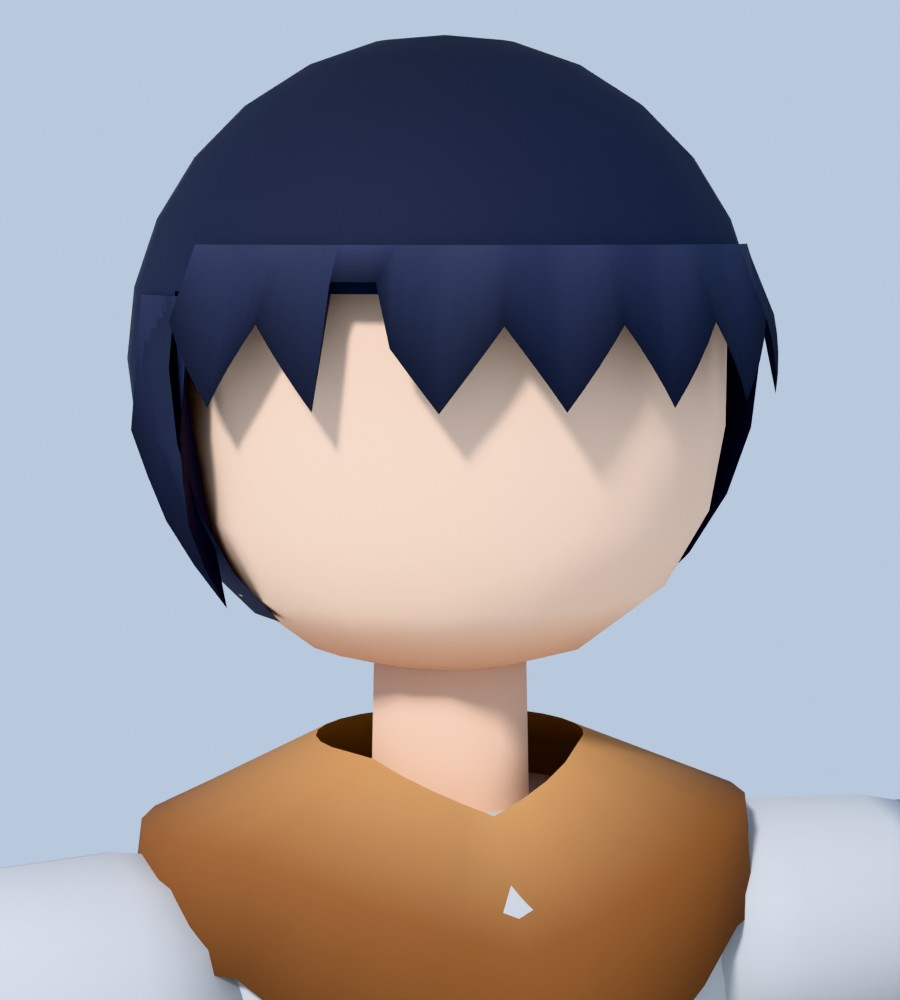
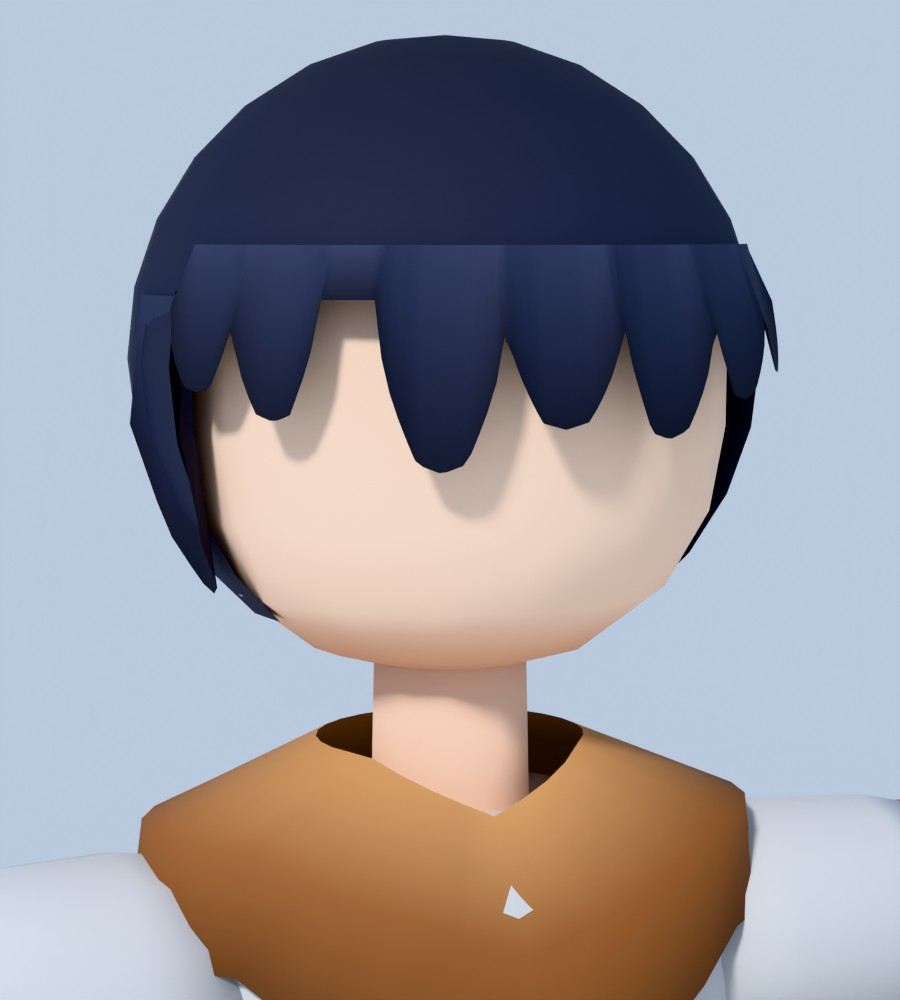
로타 앞머리를 뾰족한 톱니 대신 끝이 뭉툭한 가닥으로, 옆머리도 둥글게
Claude-Session: https://claude.ai/code/session_013o2MuY9sDztt8LyjMZEytH

Changed region(s): [[0.1867, 0.279, 0.8711, 0.62], [0.84, 0.279, 0.8711, 0.31]]

diff --git a/tools/character/rota.py b/tools/character/rota.py
@@ -157,17 +157,23 @@ def build():
             F.append((2 * k, 2 * k + 2, 2 * k + 3, 2 * k + 1))        # inner side, so it has a back
         hair.add(V, F, C, smooth=True)
 
+    # locks of hair: wide at the root, tapering to a soft point, different lengths, narrow gaps between
+    LOCKS = [(0.0, 0.11, 0.04), (0.11, 0.22, 0.052), (0.29, 0.43, 0.075), (0.43, 0.57, 0.055),
+             (0.57, 0.71, 0.062), (0.71, 0.85, 0.046), (0.85, 1.0, 0.036)]
+
+    def lock(u, depth, root=1.465):
+        # a strip of hair: steep sides, a blunt rounded end, only a slight taper
+        v = 1 - abs(2 * u - 1)                         # 0 at the gaps, 1 in the middle of the lock
+        return root - depth * min(1.0, (v / 0.6) ** 0.5) * (0.85 + 0.15 * v)
+
     def fringe(t):
-        # seven strands across the brow; the part shows a wedge of forehead on the left
-        k = t * 7
-        saw = abs((k % 1.0) - 0.5) * 2                 # 1 at the gaps, 0 at the tips
-        z = 1.418 + 0.04 * saw
-        if 0.22 < t < 0.3:                             # the part
-            z = max(z, 1.478)
-        return z
-    shell(-160, -20, 56, fringe)
-    for a0 in (-178, -2):                              # side locks to the jaw, pointed at the tip
-        shell(a0, a0 + 20, 8, lambda t: 1.312 + 0.09 * abs(t - 0.5) * 2, z_top=1.47)
+        for t0, t1, depth in LOCKS:
+            if t0 <= t <= t1:
+                return lock((t - t0) / (t1 - t0), depth)
+        return 1.47                                    # the part: a wedge of forehead shows
+    shell(-160, -20, 112, fringe)
+    for a0 in (-178, -2):                              # side locks to the jaw
+        shell(a0, a0 + 20, 12, lambda t: lock(t, 0.085, 1.405), z_top=1.47)
 
     # ---------- tunic: white, shaded pale blue toward the hem ----------
     def slit(c):                                       # the skirt is split up both sides, below the belt
